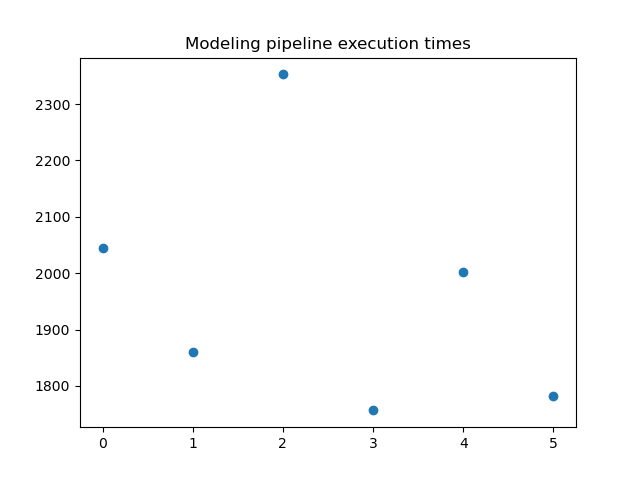
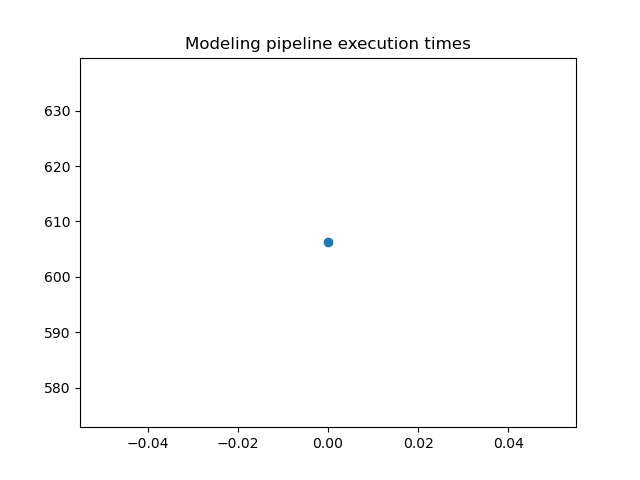
fix performance graphics nb and diagnostic plots

diff --git a/package/plots/diagnostic_plot.py b/package/plots/diagnostic_plot.py
@@ -35,7 +35,7 @@ def residual(filepath, title, array1, array2):
 
 
 def execution_time_scatter(filepath, title, execution_times):
-    plt.hist(np.arange(0, len(execution_times), execution_times))
+    plt.scatter(np.arange(0, len(execution_times)), execution_times)
     plt.title(title)
     __savefig(filepath)
     plt.show()
